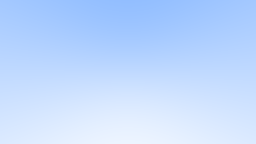
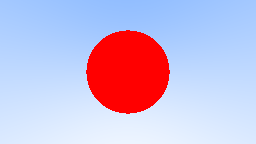
First sphere

Changed region(s): [[0.3125, 0.1944, 0.6875, 0.8056]]

diff --git a/src/main.cpp b/src/main.cpp
@@ -17,6 +17,15 @@ const uint32_t imageWidth  = 256;
 const uint32_t imageHeight = 144;
 const uint8_t  numChannels = 3;
 
+bool HitSphere(const glm::vec3 &p, float radius, const Ray &r) {
+    glm::vec3 no = p - r.GetOrigin();
+    float a = glm::dot(r.GetDirection(), r.GetDirection());
+    float b = 2.0 * glm::dot(r.GetDirection(), no);
+    float c = glm::dot(no, no) - radius * radius;
+    float D = b * b - 4 * a * c;
+    return D >= 0;
+}
+
 void SavePngImage(uint8_t *image, const std::string &name) {
     std::string filePath = name + ".png";
     #ifdef OUTPUT_DIR
@@ -40,6 +49,10 @@ void SetPixelColor(uint8_t *image, uint32_t px, uint32_t py, glm::vec3 color) {
 }
 
 glm::vec3 RayColor(const Ray &r) {
+    if (HitSphere(glm::vec3(0, 0, -1), 0.5, r)) {
+        return glm::vec3(1, 0, 0);
+    }
+
     glm::vec3 dir = glm::normalize(r.GetDirection());
     float t = 0.5f * (dir.y + 1.0f);
     return glm::mix(glm::vec3(1.0), glm::vec3(0.5, 0.7, 1.0), t);
